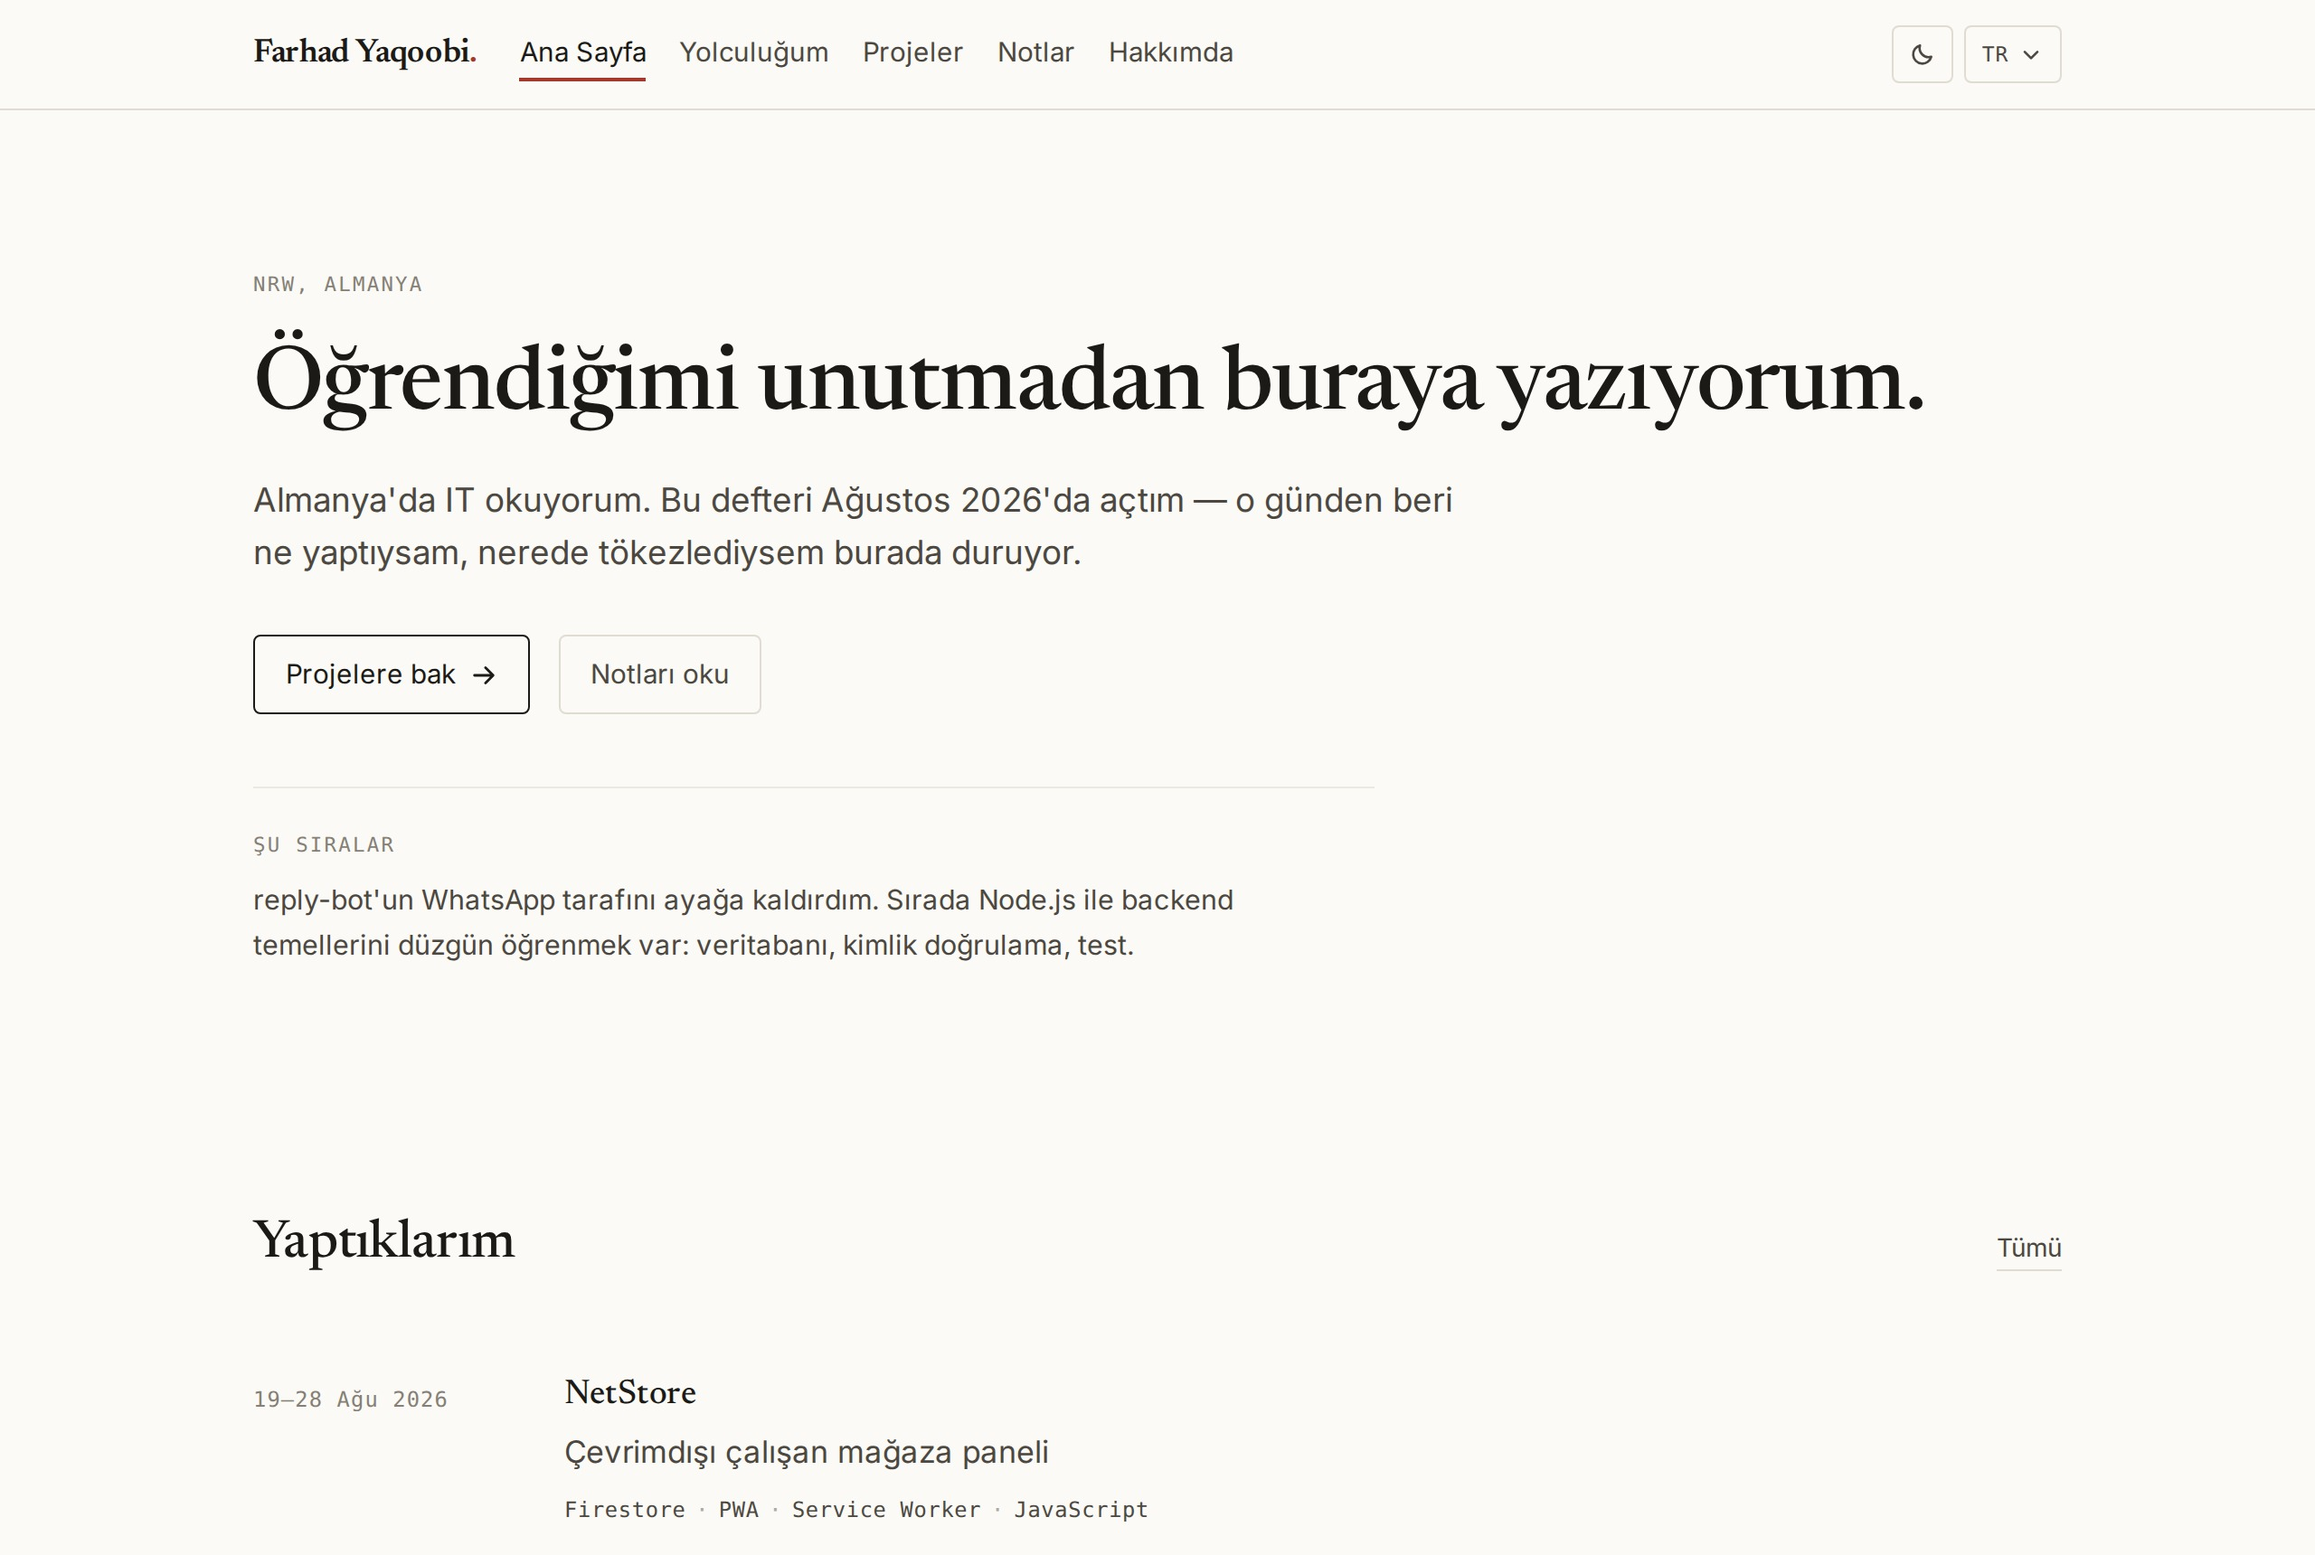
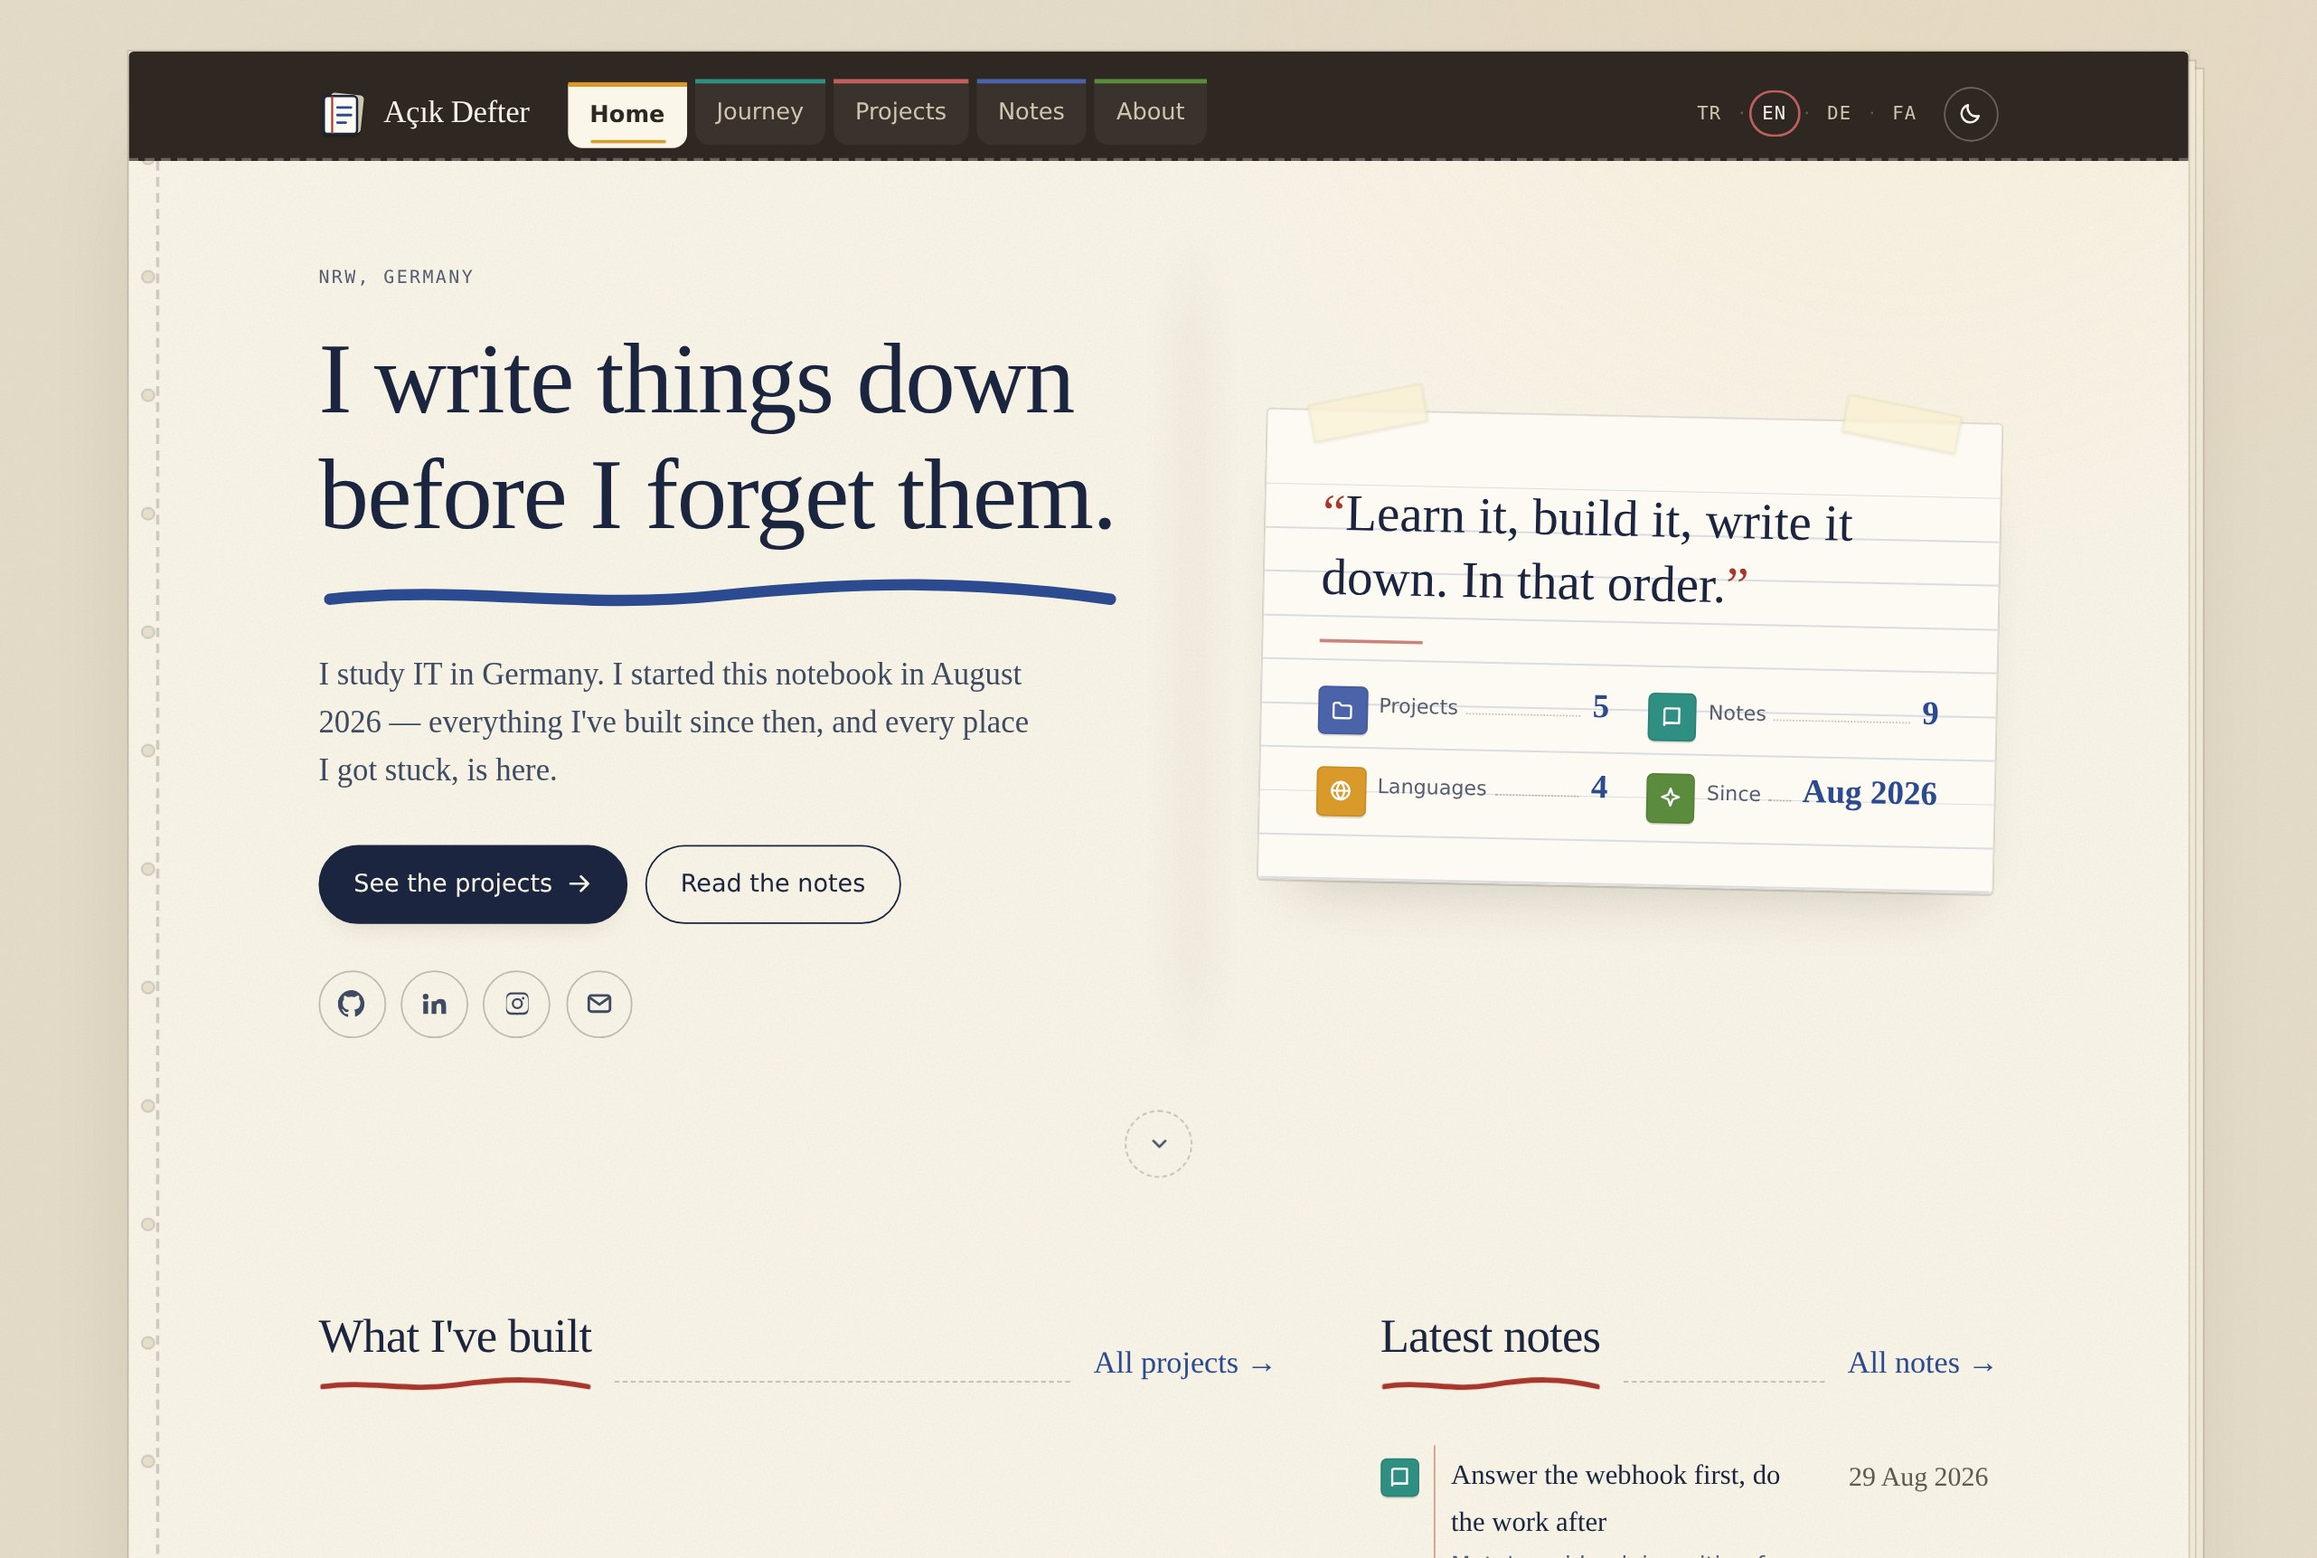
Açık Defter bölümünü sitenin yeni hâline göre yenile
Depodaki ekran görüntüsü siteyi eski tasarımıyla gösteriyordu; acik-defter
11 Eylül'deki tasarım değişikliğinden sonra çizgili bir okul defterine
dönüşmüş.

- Ekran görüntüsü depo klonlanıp site yerelde açılarak yeniden alındı
  (2560x1720, diğer görsellerle aynı ölçü).
- Metin yeni tasarımı ve sitenin kendi anlattıklarını yansıtıyor: kağıt
  zemin, kırmızı marj, dikişli sırt, ayraç sekmeleri; koyu tema aynı
  defterin masa lambası altındaki hâli. Dört dilin tek sözlüğü, Farsçada
  sağdan sola dönen yerleşim, JavaScript kapalıyken de okunabilirlik.
- "Bir denetim script'i" yerine iki script anlatılıyor: dosyaları okuyup
  elle yazılan çerçevenin ayrışmadığına bakan check.mjs ve gerçek bir
  tarayıcı açıp kontrast, dokunma hedefi, klavye erişimi ve çevrimdışı
  önbelleği ölçen test.mjs.
- Yığına View Transitions eklendi; "öğrenilenler" satırı güncellendi.

Claude-Session: https://claude.ai/code/session_01CVBJWNhJUE9FLH1KSAqHhw

diff --git a/README.md b/README.md
@@ -66,15 +66,21 @@ whole thing; Telegram is reached by long polling, so no public URL is needed.
 <sub>*An IT student's open notebook — my personal site and learning journal.*</sub>
 
 <a href="https://ferhat-yasinoglu.github.io/acik-defter/">
-  <img src="https://raw.githubusercontent.com/Ferhat-Yasinoglu/ferhat-yasinoglu/main/assets/acik-defter.jpg" width="100%" alt="Açık Defter homepage" />
+  <img src="https://raw.githubusercontent.com/Ferhat-Yasinoglu/ferhat-yasinoglu/main/assets/acik-defter.jpg" width="100%" alt="Açık Defter homepage: a lined notebook page on a desk, with a taped note card counting projects, notes and languages" />
 </a>
 
-Written from scratch — no framework, no build step. Four languages in one interface,
-the whole layout flips when you switch to Persian, and it reads with the network off.
-A check script keeps the hand-written chrome from drifting apart across pages.
+Written from scratch — no framework, no build step, no dependency. The site is a lined school
+notebook lying on a desk: paper grain, a red margin, a stitched spine, bookmark tabs on the cover;
+dark mode is the same notebook under a desk lamp. Four languages share one dictionary, the whole
+layout turns right-to-left in Persian, and it reads with the network off. Nothing is hidden when
+JavaScript is off, and every animation stops when the system asks for less motion.
 
-<sub>**Built with** JavaScript (ES6+) &nbsp;·&nbsp; CSS3 &nbsp;·&nbsp; Service Workers &nbsp;·&nbsp; Web App Manifest</sub><br>
-<sub>**Learned here** RTL through logical CSS properties &nbsp;·&nbsp; cache strategies &nbsp;·&nbsp; applying preferences before the page paints</sub>
+Two scripts guard it: one reads the files and checks that the hand-written header and footer haven't
+drifted apart across pages, the other opens a real browser and measures contrast, touch targets,
+keyboard access and whether the offline cache actually works.
+
+<sub>**Built with** JavaScript (ES6+) &nbsp;·&nbsp; CSS3 &nbsp;·&nbsp; View Transitions &nbsp;·&nbsp; Service Workers &nbsp;·&nbsp; Web App Manifest</sub><br>
+<sub>**Learned here** RTL through logical CSS properties &nbsp;·&nbsp; cache strategies &nbsp;·&nbsp; measuring contrast and touch targets in a real browser</sub>
 
 [![Live](https://img.shields.io/badge/Open-Live%20site-9ece6a?style=flat-square&logo=googlechrome&logoColor=white)](https://ferhat-yasinoglu.github.io/acik-defter/)
 [![Code](https://img.shields.io/badge/Read-Source-70a5fd?style=flat-square&logo=github&logoColor=white)](https://github.com/Ferhat-Yasinoglu/acik-defter)
